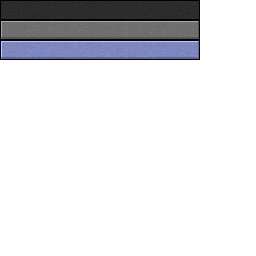
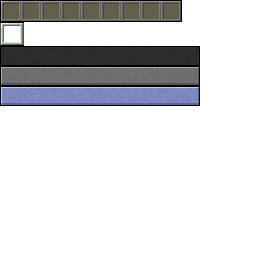
implement hotbar

diff --git a/src/js/net/minecraft/client/Minecraft.js b/src/js/net/minecraft/client/Minecraft.js
@@ -32,7 +32,7 @@ window.Minecraft = class {
 
         // Create player
         this.player = new Player(this, this.world);
-        this.pickedBlock = 1;
+        this.inventory = new Inventory();
 
         // Initialize
         this.init();
@@ -112,12 +112,13 @@ window.Minecraft = class {
         // Switch screen
         this.currentScreen = screen;
 
+        // Update window size
+        this.window.updateWindowSize();
+
         // Initialize new screen
         if (screen === null) {
-            this.worldRenderer.webRenderer.setPixelRatio(1);
             this.window.requestFocus();
         } else {
-            this.worldRenderer.webRenderer.setPixelRatio(1 / this.window.scaleFactor);
             screen.setup(this, this.window.width, this.window.height);
         }
     }
@@ -142,6 +143,14 @@ window.Minecraft = class {
         }
     }
 
+    onKeyPressed(button) {
+        for (let i = 1; i <= 9; i++) {
+            if (button === 'Digit' + i) {
+                this.inventory.selectedSlotIndex = i - 1;
+            }
+        }
+    }
+
     onMouseClicked(button) {
         if (this.window.mouseLocked) {
             let hitResult = this.player.rayTrace(5, this.timer.partialTicks);
@@ -158,7 +167,7 @@ window.Minecraft = class {
                 if (hitResult != null) {
                     let typeId = this.world.getBlockAt(hitResult.x, hitResult.y, hitResult.z);
                     if (typeId !== 0) {
-                        this.pickedBlock = typeId;
+                        this.inventory.setItemInSelectedSlot(typeId);
                     }
                 }
             }
@@ -174,11 +183,18 @@ window.Minecraft = class {
 
                     // Don't place blocks if the player is standing there
                     if (!placedBoundingBox.intersects(this.player.boundingBox)) {
-                        this.world.setBlockAt(x, y, z, this.pickedBlock);
+                        let typeId = this.inventory.getItemInSelectedSlot();
+                        if (typeId !== 0) {
+                            this.world.setBlockAt(x, y, z, typeId);
+                        }
                     }
                 }
             }
         }
+    }
+
+    onMouseScroll(delta) {
+        this.inventory.shiftSelectedSlot(delta);
     }
 
 }

diff --git a/src/js/net/minecraft/client/gui/IngameOverlay.js b/src/js/net/minecraft/client/gui/IngameOverlay.js
@@ -6,17 +6,46 @@ window.IngameOverlay = class extends Gui {
         this.window = window;
 
         this.textureCrosshair = Gui.loadTexture("icons.png");
+        this.textureHotbar = Gui.loadTexture("gui.png");
+        this.textureTerrain = Gui.loadTexture("terrain.png");
     }
 
     render(stack, mouseX, mouseY, partialTicks) {
         if (this.minecraft.hasInGameFocus()) {
             this.renderCrosshair(stack, this.window.width / 2, this.window.height / 2)
         }
+
+        this.renderHotbar(stack, this.window.width / 2 - 100, this.window.height - 22);
     }
 
     renderCrosshair(stack, x, y) {
         let size = 15;
         this.drawSprite(stack, this.textureCrosshair, 0, 0, 15, 15, x - size / 2, y - size / 2, size, size, 0.6);
+    }
+
+    renderHotbar(stack, x, y) {
+        this.drawSprite(stack, this.textureHotbar, 0, 0, 200, 22, x, y, 200, 22)
+        this.drawSprite(
+            stack,
+            this.textureHotbar,
+            0, 22,
+            24, 24,
+            x + this.minecraft.inventory.selectedSlotIndex * 20, y - 1,
+            24, 24
+        )
+
+        for (let i = 0; i < 9; i++) {
+            let typeId = this.minecraft.inventory.getItemInSlot(i);
+
+            if (typeId !== 0) {
+                this.renderBlock(
+                    stack,
+                    this.textureTerrain, Block.getById(typeId),
+                    x + i * 20,
+                    y
+                );
+            }
+        }
     }
 
 }

diff --git a/src/js/net/minecraft/client/GameWindow.js b/src/js/net/minecraft/client/GameWindow.js
@@ -3,6 +3,7 @@ window.GameWindow = class {
     constructor(minecraft, canvasWrapperId) {
         this.minecraft = minecraft;
         this.canvasWrapperId = canvasWrapperId;
+        this.renderer = null;
 
         this.mouseMotionX = 0;
         this.mouseMotionY = 0;
@@ -46,6 +47,12 @@ window.GameWindow = class {
             }
         }, false);
 
+        // Mouse scroll
+        document.addEventListener('wheel', function (event) {
+            let delta = Math.sign(event.deltaY);
+            minecraft.onMouseScroll(delta);
+        }, false);
+
         // Keyboard interaction with screen
         window.addEventListener('keydown', function (event) {
             if (!(minecraft.currentScreen === null)) {
@@ -59,6 +66,8 @@ window.GameWindow = class {
             } else if (event.code === 'Escape') {
                 event.preventDefault();
                 minecraft.displayScreen(new GuiIngameMenu());
+            } else {
+                minecraft.onKeyPressed(event.code);
             }
         });
 
@@ -105,6 +114,10 @@ window.GameWindow = class {
 
         this.width = this.width / this.scaleFactor;
         this.height = this.height / this.scaleFactor;
+
+        if (!(this.renderer === null)) {
+            this.renderer.webRenderer.setPixelRatio(/*this.minecraft.currentScreen === null ? 1 :*/ 1 / this.scaleFactor);
+        }
     }
 
     onResize() {

diff --git a/src/js/net/minecraft/client/gui/Gui.js b/src/js/net/minecraft/client/gui/Gui.js
@@ -39,6 +39,24 @@ window.Gui = class {
         stack.restore();
     }
 
+    renderBlock(stack, texture, block, x, y) {
+        stack.save();
+        stack.translate(x + 3, y + 3);
+        this.renderBlockFace(stack, texture, block, EnumBlockFace.NORTH);
+        stack.restore();
+    }
+
+    renderBlockFace(stack, texture, block, face) {
+        // UV Mapping
+        let textureIndex = block.getTextureForFace(face);
+        let minU = (textureIndex % 16) / 16.0;
+        let minV = Math.floor(textureIndex / 16) / 16.0;
+
+        stack.save();
+        this.drawSprite(stack, texture, minU * 256, minV, 16, 16, 0, 0, 16, 16)
+        stack.restore();
+    }
+
     static drawSprite(stack, texture, spriteX, spriteY, spriteWidth, spriteHeight, x, y, width, height, alpha = 1.0) {
         stack.save();
         stack.globalAlpha = alpha;

diff --git a/src/js/net/minecraft/client/inventory/Inventory.js b/src/js/net/minecraft/client/inventory/Inventory.js
@@ -1,0 +1,27 @@
+window.Inventory = class {
+
+    constructor() {
+        this.selectedSlotIndex = 0;
+        this.items = [];
+    }
+
+    setItemInSelectedSlot(typeId) {
+        this.items[this.selectedSlotIndex] = typeId;
+    }
+
+    getItemInSelectedSlot() {
+        return this.getItemInSlot(this.selectedSlotIndex);
+    }
+
+    shiftSelectedSlot(offset) {
+        if (this.selectedSlotIndex + offset < 0) {
+            this.selectedSlotIndex = 9 + (this.selectedSlotIndex + offset);
+        } else {
+            this.selectedSlotIndex = (this.selectedSlotIndex + offset) % 9;
+        }
+    }
+
+    getItemInSlot(slot) {
+        return this.items.hasOwnProperty(slot) ? this.items[slot] : 0;
+    }
+}

diff --git a/src/js/net/minecraft/client/gui/widgets/GuiButton.js b/src/js/net/minecraft/client/gui/widgets/GuiButton.js
@@ -15,7 +15,7 @@ window.GuiButton = class extends Gui {
 
     render(stack, mouseX, mouseY, partialTicks) {
         let mouseOver = this.isMouseOver(mouseX, mouseY);
-        this.drawSprite(stack, GuiButton.textureGui, 0, mouseOver ? 40 : 20, 200, 20, this.x, this.y, this.width, this.height);
+        this.drawSprite(stack, GuiButton.textureGui, 0, 66 + (mouseOver ? 20 : 0), 200, 20, this.x, this.y, this.width, this.height);
         this.drawCenteredString(stack, this.string, this.x + this.width / 2, this.y + this.height / 2 - 5);
     }
 

diff --git a/src/start.js b/src/start.js
@@ -83,6 +83,7 @@ loadScripts([
     "src/js/net/minecraft/client/world/generator/noise/NoiseGeneratorCombined.js",
     "src/js/net/minecraft/client/world/generator/WorldGenerator.js",
     "src/js/net/minecraft/client/entity/Player.js",
+    "src/js/net/minecraft/client/inventory/Inventory.js",
     "src/js/net/minecraft/client/Minecraft.js",
     "src/js/net/minecraft/client/render/FontRenderer.js",
     "src/js/net/minecraft/client/render/Tessellator.js",

diff --git a/src/js/net/minecraft/client/gui/screens/GuiIngameMenu.js b/src/js/net/minecraft/client/gui/screens/GuiIngameMenu.js
@@ -18,7 +18,7 @@ window.GuiIngameMenu = class extends GuiScreen {
         this.drawRect(stack, 0, 0, this.width, this.height, 'black', 0.6);
 
         // Title
-        this.drawCenteredString(stack, "Game paused", this.width / 2, 50);
+        this.drawCenteredString(stack, "Game menu", this.width / 2, 50);
 
         super.drawScreen(stack, mouseX, mouseY, partialTicks);
     }

diff --git a/src/js/net/minecraft/client/render/BlockRenderer.js b/src/js/net/minecraft/client/render/BlockRenderer.js
@@ -135,5 +135,4 @@ window.BlockRenderer = class {
         // Calculate the average light level of all surrounding blocks
         return totalBlocks === 0 ? 0 : totalLightLevel / totalBlocks;
     }
-
 }
